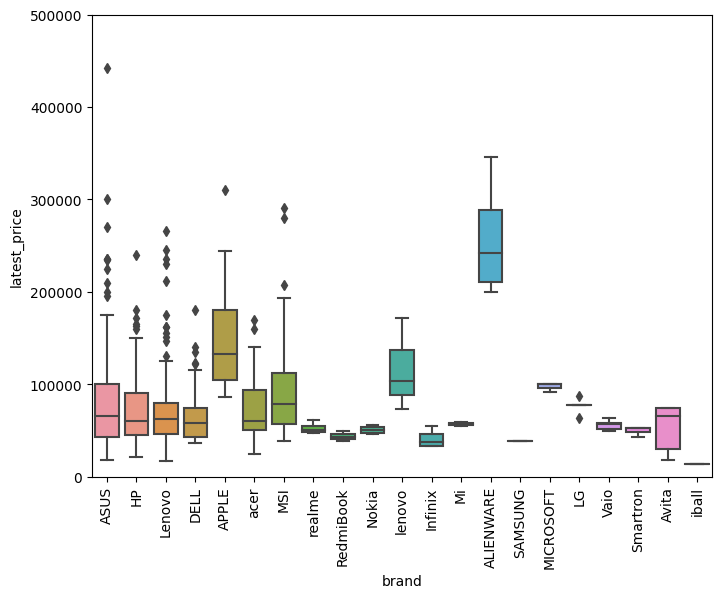
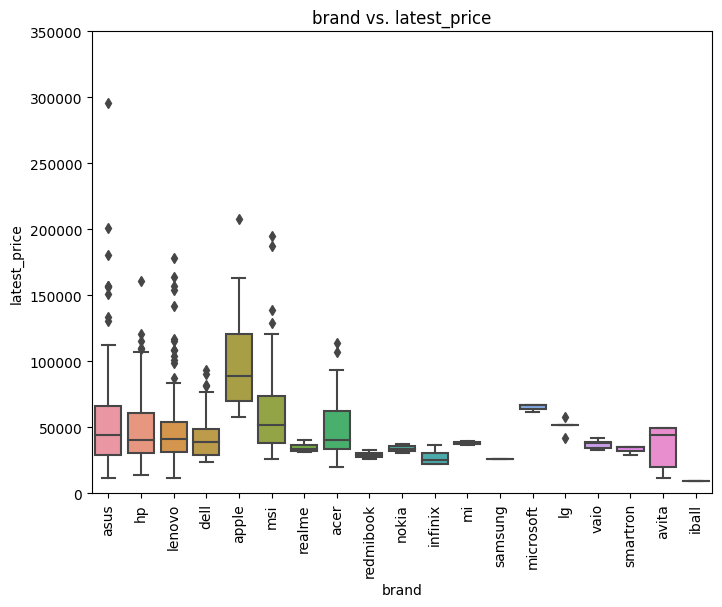
Added more analysis

diff --git a/laptop_vis.py b/laptop_vis.py
@@ -17,10 +17,10 @@ if __name__ == "__main__":
     print(laptop_data.columns)
 
     '''
+    Preliminary analysis
     From personal knowledge:
     HIGH IMPORTANCE: brand, ram_gb, ssd, graphic_card_gb
     We can double check by analyzing correlation with latest_price
-    These are just preliminary thoughts, we must use practical measures later
     '''
 
     # dataset taken from kaggle has prices listed as Indian Rupee
@@ -30,7 +30,7 @@ if __name__ == "__main__":
     laptop_data['latest_price'] = laptop_data['latest_price'].apply(lambda x: x * 0.67)
     laptop_data['old_price'] = laptop_data['old_price'].apply(lambda x: x * 0.67)
 
-    # check our work
+    # check
     print(laptop_data['latest_price'].describe())
 
     # min is now PHP 9373.30 and max is now PHP 296133.30
@@ -38,10 +38,6 @@ if __name__ == "__main__":
 
     # histogram
     sns.distplot(laptop_data['latest_price'])
-
-    # skewness and kurtosis
-    print(laptop_data['latest_price'].skew())
-    print(laptop_data['latest_price'].kurt())
 
     # scatter plots with brand, ram_gb, ssd, and graphic_card_gb
     # ram_gb, ssd, and graphic_card_gb are numerical, but only have
@@ -230,3 +226,46 @@ if __name__ == "__main__":
 
     # can write to csv now
     laptop_data.to_csv('final_laptop_data.csv', index = False)
+
+    ###
+
+    # redo some plots
+    new_corrmat = laptop_data.corr()
+    f, ax = plt.subplots(figsize = (12, 12))
+    sns.heatmap(corrmat, vmax = 0.8, annot = True, square = True, xticklabels = 1, yticklabels = 1)
+
+    '''
+    plot shows ram_gb, ssd and graphic_card_gb have high correlation with latest_price,
+    expected because these are all desirable features when shopping for a laptop
+    funnily enough, hdd has negative correlation with latest_price most likely due
+    to the shift from hdd to ssd, and hdd laptops are more often than not older and thus
+    a worse value than newer entries into the market
+    expectedly, higher specs are more closely bundled with each other too, so there is a
+    high correlation between ssd and graphic_card_gb
+    if the processor_brand and processor_name were one hot encoded, it would be expected
+    that later generation cpus come bundled with higher specs as well and would also bump up
+    the price of the machines
+    otherwise, os_bit, display_size, and warranty don't seem to affect pricing that much
+    '''
+
+    high_correlation = ['ram_gb', 'ssd', 'graphic_card_gb']
+    for feature in high_correlation:
+        title = str(feature) + ' vs. latest_price'
+        laptop_data.plot.scatter(x = feature, y = 'latest_price', ylim = (0, 350000))
+        plt.title(title)
+        box_data = pd.concat([laptop_data['latest_price'], laptop_data[feature]], axis = 1)
+        f, ax = plt.subplots(figsize = (8, 6))
+        fig = sns.boxplot(x = feature, y = 'latest_price', data = box_data)
+        fig.set_title(title)
+        fig.axis(ymin = 0, ymax = 350000)
+
+    # for brands
+    feature = 'brand'
+    data = pd.concat([laptop_data['latest_price'], laptop_data[feature]], axis = 1)
+    f, ax = plt.subplots(figsize = (8, 6))
+    fig = sns.boxplot(x = feature, y = 'latest_price', data = laptop_data)
+    plt.xticks(rotation=90)
+    fig.set_title('brand vs. latest_price')
+    fig.axis(ymin = 0, ymax = 350000)
+
+    
